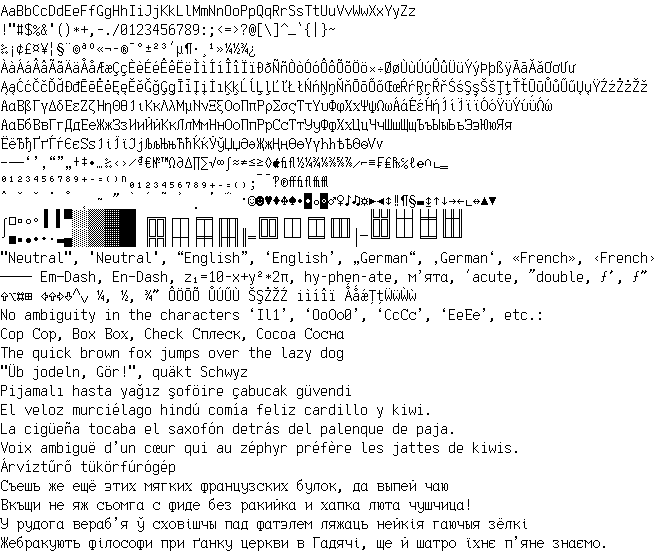
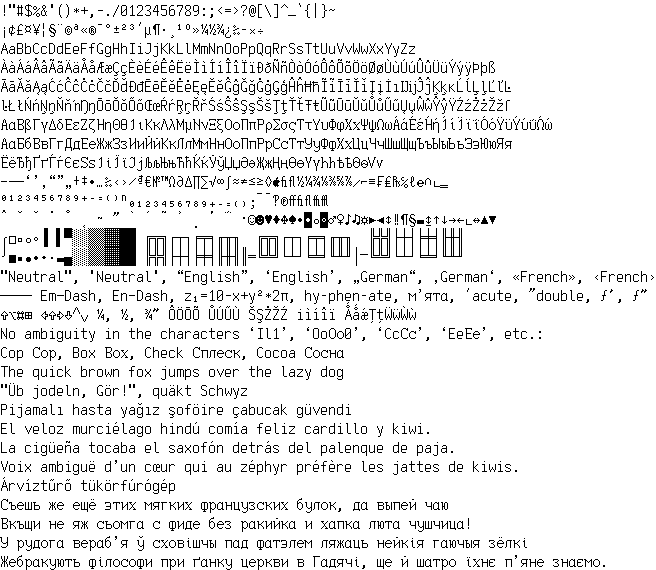
New codepoints

diff --git a/export.js b/export.js
@@ -52,12 +52,16 @@ function getAsciiImage() {
 function getTableText() {
     let latestGroup = '';
     let latestPos = 0;
+    const groupCols = ['000', '039', '220'];
     const colHeader = 'Code ' + [...Array(16).keys()].map(n => toHex(n, 1)).join(' ') + ' ';
-    const col1 = [colHeader];
-    const col2 = [colHeader];
+    const cols = groupCols.map(() => [colHeader])
     for (let char of chars) {
         let group = toHex(char.code >> 4, 3);
-        const col = group < '100' ? col1 : col2;
+        let i = groupCols.length - 1;
+        while (i > 0 && group < groupCols[i]) {
+            i--;
+        }
+        const col = cols[i];
         if (group != latestGroup) {
             latestGroup = group;
             latestPos = 0;
@@ -70,10 +74,13 @@ function getTableText() {
         col[col.length - 1] += ' ' + ch;
     }
     const res = [];
-    for (let i = 0; i < Math.max(col1.length, col2.length); i++) {
-        const s1 = col1[i] || '';
-        const s2 = col2[i] || '';
-        res.push(s1 + ' '.repeat(40 - s1.length) + s2);
+    const maxRows = Math.max(...cols.map(c => c.length));
+    for (let i = 0; i < maxRows; i++) {
+        const s = cols.map(col => {
+            const row = col[i] || '';
+            return row + ' '.repeat(colHeader.length - row.length);
+        });
+        res.push(s.join('   '));
     }
     return res;
 }
@@ -111,13 +118,13 @@ function getImage(/** @type {string[]} */ textLines) {
 
 writeFileSync('./Codescopix.png', getImage(getTableText()));
 writeFileSync('./Example.png', getImage([
-    'AaBbCcDdEeFfGgHhIiJjKkLlMmNnOoPpQqRrSsTtUuVvWwXxYyZz',
     '!\"#$%&\'()*+,-./0123456789:;<=>?@[\\]^_`{|}~',
-    '‰¡¢£¤¥¦§¨©ªº«¬\u00AD®¯°±²³´µ¶·¸¹»¼½¾¿',
-    'ÀàÁáÂâÃãÄäÅåÆæÇçÈèÉéÊêËëÌìÍíÎîÏïÐðÑñÒòÓóÔôÕõÖö×÷ØøÙùÚúÛûÜüÝýÞþßÿĀāĂăƠơƯư',
-    'ĄąĆćČčĎďĐđĒēĖėĘęĚěĞğĢģĪīĮįİıĶķĹĺĻļĽľŁłŃńŅņŇňŌōŐőŒœŔŕŖŗŘřŚśŞşŠšŢţŤťŪūŮůŰűŲųŸŹźŻżŽž',
+    '¡¢£¤¥¦§¨©ª«®¯°±²³´µ¶·¸¹º»¼½¾¿‰\u00AD×÷',
+    'AaBbCcDdEeFfGgHhIiJjKkLlMmNnOoPpQqRrSsTtUuVvWwXxYyZz',
+    'ÀàÁáÂâÃãÄäÅåÆæÇçÈèÉéÊêËëÌìÍíÎîÏïÐðÑñÒòÓóÔôÕõÖöØøÙùÚúÛûÜüÝýÿÞþß',
+    'ĀāĂăĄąĆćĈĉĊċČčĎďĐđĒēĔĕĖėĘęĚěĜĝĞğĠġĢģĤĥĦħĨĩĪīĬĭĮįİıĲĳĴĵĶķĸĹĺĻļĽľĿ',
+    'ŀŁłŃńŅņŇňŉŊŋŌōŎŏŐőŒœŔŕŖŗŘřŚśŜŝŞşŠšŢţŤťŦŧŨũŪūŬŭŮůŰűŲųŴŵŶŷŸŹźŻżŽžſ',
     'ΑαΒβΓγΔδΕεΖζΗηΘθΙιΚκΛλΜμΝνΞξΟοΠπΡρΣσςΤτΥυΦφΧχΨψΩωΆάΈέΉήΊίΪϊΐΌόΫϋΎύΰΏώ',
-    // TODO: Windows Glyph List 4 (WGL4), World Glyph Set (W1G)
     'АаБбВвГгДдЕеЖжЗзИиЙйКкЛлМмНнОоПпРрСсТтУуФфХхЦцЧчШшЩщЪъЫыЬьЭэЮюЯя',
     'ЁёЂђҐґЃѓЄєЅѕІіЇїЈјЉљЊњЋћЌќЎўЏџӘәҖҗҢңӨөҮүҺһѢѣѲѳѴѵ',
     '–—―‘’‚“”„†‡•…‰‹›⁄₫€№™Ω∂∆∏∑√∞∫≈≠≤≥◊\uF8FFﬁﬂ½¼¾⅛⅜⅝⅞∕⌐≡₣₤₧℅ℓ℮∩∟‗',
